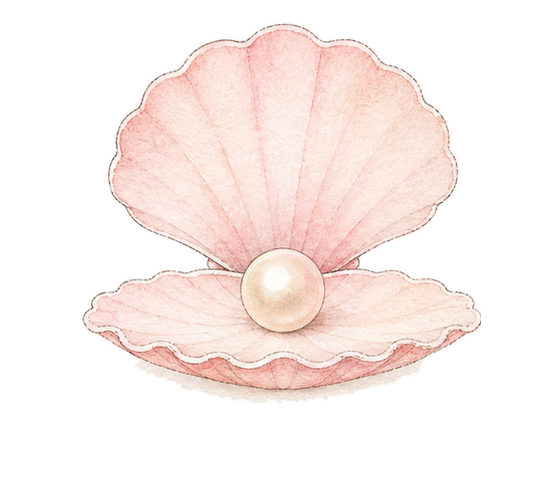
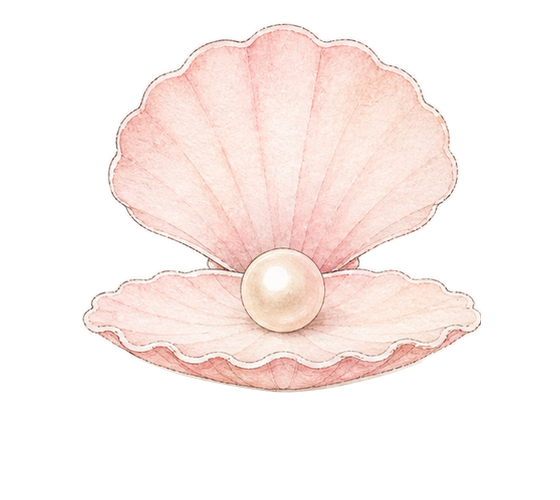
Fix shell animation and add draggable shell

Changed region(s): [[0.2429, 0.72, 0.7589, 0.81]]

diff --git a/scripts/seabed.js b/scripts/seabed.js
@@ -19,11 +19,11 @@
     'concepts/fish/fish-6.png'
   ];
   var shellFrames = [
-    'concepts/shell/web-frames/shell-web-frame-0.png',
-    'concepts/shell/web-frames/shell-web-frame-1.png',
-    'concepts/shell/web-frames/shell-web-frame-2.png',
-    'concepts/shell/web-frames/shell-web-frame-3.png',
-    'concepts/shell/web-frames/shell-web-frame-4.png'
+    'concepts/shell/web-frames/shell-web-frame-0.png?v=20260620-shell-trim',
+    'concepts/shell/web-frames/shell-web-frame-1.png?v=20260620-shell-trim',
+    'concepts/shell/web-frames/shell-web-frame-2.png?v=20260620-shell-trim',
+    'concepts/shell/web-frames/shell-web-frame-3.png?v=20260620-shell-trim',
+    'concepts/shell/web-frames/shell-web-frame-4.png?v=20260620-shell-trim'
   ];
   var oracleResponses = [
     '摸鱼之神翻了个身：今日宜慢一点。',
@@ -41,6 +41,8 @@
   var lastTime = 0;
   var bounds = { width: 0, height: 0, upper: 0, lower: 0 };
   var pointer = { x: -9999, y: -9999, active: false };
+  var shellPositionStorageKey = 'seabedShellPosition';
+  var shellDrag = null;
   var fish = [];
   var shellFrameIndex = 0;
 
@@ -61,6 +63,33 @@
     shell.setAttribute('aria-label', open ? '祈愿贝壳已打开，可以点击珍珠' : '打开祈愿贝壳');
     if (reducedMotion) setShellFrame(open ? shellFrames.length - 1 : 0);
   }
+
+  function readShellPosition() {
+    try {
+      var saved = window.localStorage.getItem(shellPositionStorageKey);
+      return saved ? JSON.parse(saved) : null;
+    } catch (error) {
+      return null;
+    }
+  }
+
+  function saveShellPosition(position) {
+    try {
+      window.localStorage.setItem(shellPositionStorageKey, JSON.stringify(position));
+    } catch (error) {}
+  }
+
+  function clamp(value, min, max) {
+    return Math.max(min, Math.min(max, value));
+  }
+
+  function applyShellPosition(position) {
+    if (!position || typeof position.leftPct !== 'number' || typeof position.bottomPx !== 'number') return;
+    shell.style.setProperty('--shell-left', position.leftPct.toFixed(3) + '%');
+    shell.style.setProperty('--shell-bottom', Math.round(position.bottomPx) + 'px');
+  }
+
+  applyShellPosition(readShellPosition());
 
   function wait(ms, token) {
     return new Promise(function (resolve) {
@@ -286,11 +315,62 @@
     if (hoverCapable) openShell();
   });
   shell.addEventListener('pointerleave', function () {
-    if (hoverCapable) closeShell();
+    if (hoverCapable && !shellDrag) closeShell();
+  });
+  shell.addEventListener('pointerdown', function (event) {
+    if (event.button !== 0 || pearl.contains(event.target)) return;
+    var sceneRect = scene.getBoundingClientRect();
+    var shellRect = shell.getBoundingClientRect();
+    shellDrag = {
+      pointerId: event.pointerId,
+      startX: event.clientX,
+      startY: event.clientY,
+      startLeft: shellRect.left - sceneRect.left + shellRect.width * 0.5,
+      startBottom: sceneRect.bottom - shellRect.bottom,
+      moved: false
+    };
+    shell.classList.add('is-dragging');
+    shell.setPointerCapture(event.pointerId);
+  });
+  shell.addEventListener('pointermove', function (event) {
+    if (!shellDrag || event.pointerId !== shellDrag.pointerId) return;
+    var sceneRect = scene.getBoundingClientRect();
+    var shellRect = shell.getBoundingClientRect();
+    var dx = event.clientX - shellDrag.startX;
+    var dy = event.clientY - shellDrag.startY;
+    var nextLeft = clamp(shellDrag.startLeft + dx, shellRect.width * 0.5, sceneRect.width - shellRect.width * 0.5);
+    var nextBottom = clamp(shellDrag.startBottom - dy, 0, Math.max(0, sceneRect.height - shellRect.height));
+    shellDrag.moved = shellDrag.moved || Math.abs(dx) > 3 || Math.abs(dy) > 3;
+    applyShellPosition({
+      leftPct: nextLeft / sceneRect.width * 100,
+      bottomPx: nextBottom
+    });
+  });
+  shell.addEventListener('pointerup', function (event) {
+    if (!shellDrag || event.pointerId !== shellDrag.pointerId) return;
+    var sceneRect = scene.getBoundingClientRect();
+    var shellRect = shell.getBoundingClientRect();
+    saveShellPosition({
+      leftPct: (shellRect.left - sceneRect.left + shellRect.width * 0.5) / sceneRect.width * 100,
+      bottomPx: sceneRect.bottom - shellRect.bottom
+    });
+    shell.dataset.dragged = shellDrag.moved ? 'true' : 'false';
+    shellDrag = null;
+    shell.classList.remove('is-dragging');
+  });
+  shell.addEventListener('pointercancel', function (event) {
+    if (!shellDrag || event.pointerId !== shellDrag.pointerId) return;
+    shellDrag = null;
+    shell.classList.remove('is-dragging');
   });
   shell.addEventListener('focusin', openShell);
   shell.addEventListener('focusout', closeAfterFocusLeaves);
-  shell.addEventListener('click', function () {
+  shell.addEventListener('click', function (event) {
+    if (shell.dataset.dragged === 'true') {
+      event.preventDefault();
+      shell.dataset.dragged = 'false';
+      return;
+    }
     openShell();
     scheduleTouchClose();
   });

diff --git a/styles/home.css b/styles/home.css
@@ -1060,17 +1060,22 @@ body.sidebar-open .sidebar-title { opacity: 1; transform: none; }
 .shell-button {
   position: absolute;
   z-index: 5;
-  left: clamp(260px, 24%, 430px);
-  bottom: 26px;
+  left: var(--shell-left, clamp(260px, 24%, 430px));
+  bottom: var(--shell-bottom, 26px);
   width: clamp(146px, 11vw, 186px);
   aspect-ratio: 560 / 500;
   padding: 0;
   border: 0;
   background: transparent;
-  cursor: pointer;
+  cursor: grab;
+  touch-action: none;
   transform: translateX(-50%);
   filter: drop-shadow(0 14px 18px rgba(119, 76, 86, 0.08));
   animation: shellRestBreath 5.8s ease-in-out infinite;
+}
+.shell-button.is-dragging {
+  cursor: grabbing;
+  animation-play-state: paused;
 }
 .shell-frame,
 .shell-halo,
@@ -1423,8 +1428,8 @@ body.sidebar-open .seabed-meta {
     font-size: 0.7rem;
   }
   .shell-button {
-    left: 50%;
-    bottom: 36px;
+    left: var(--shell-left, 50%);
+    bottom: var(--shell-bottom, 36px);
     width: 154px;
   }
   .seabed-message {

diff --git a/index.html b/index.html
@@ -153,7 +153,7 @@
 
   <div class="shell-button" id="shellButton" data-shell-state="closed" role="button" tabindex="0" aria-label="打开祈愿贝壳" aria-expanded="false">
     <span class="shell-halo" aria-hidden="true"></span>
-    <img class="shell-frame" id="shellFrame" src="concepts/shell/web-frames/shell-web-frame-0.png" alt="">
+    <img class="shell-frame" id="shellFrame" src="concepts/shell/web-frames/shell-web-frame-0.png?v=20260620-shell-trim" alt="">
     <button class="pearl-button" id="pearlButton" type="button" aria-label="点击珍珠，召唤摸鱼">
       <span class="pearl-hit-glow" aria-hidden="true"></span>
     </button>